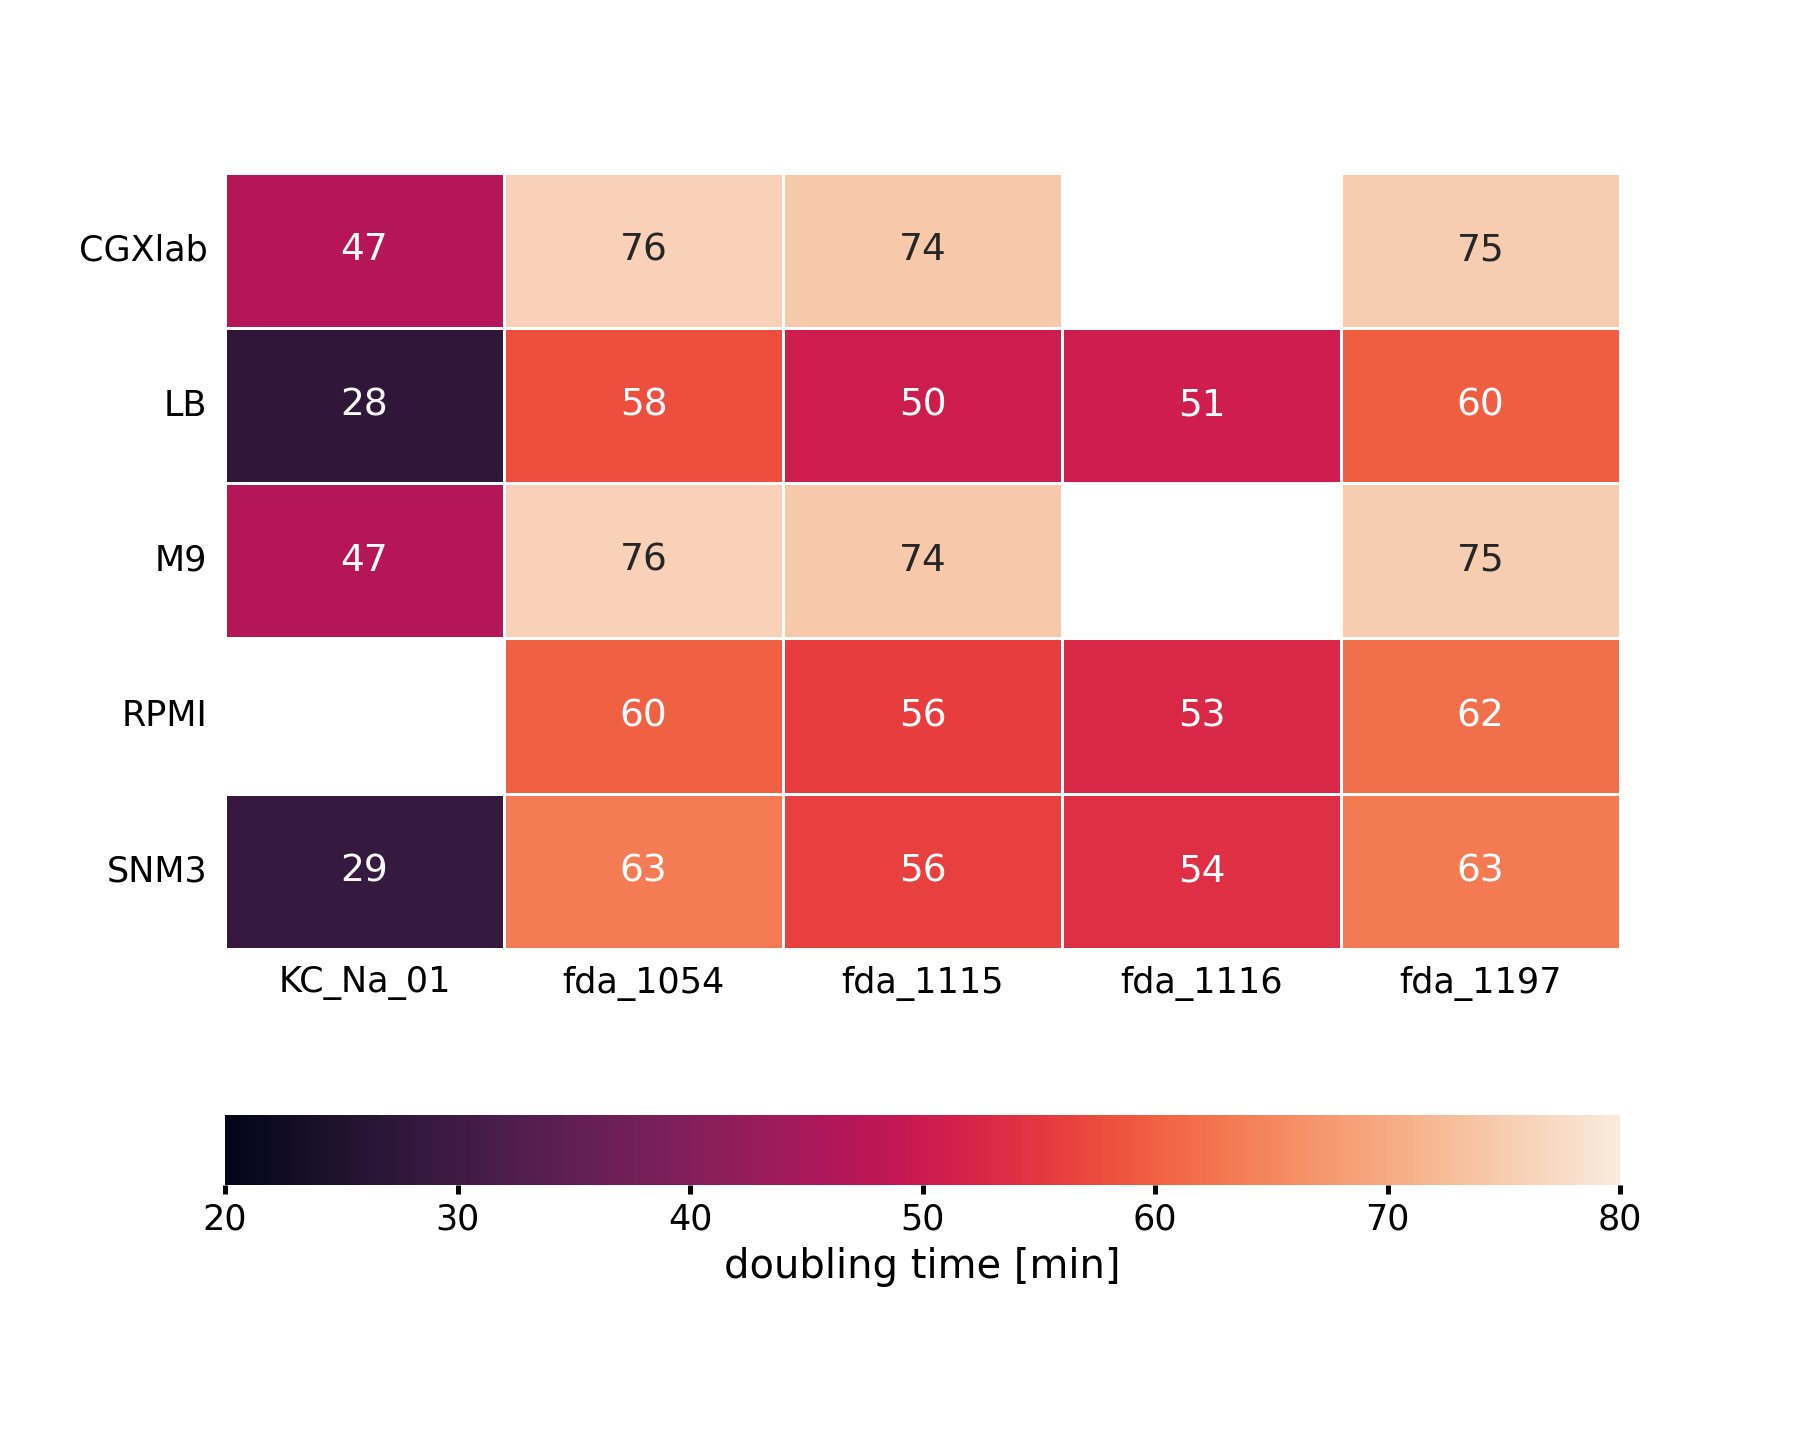
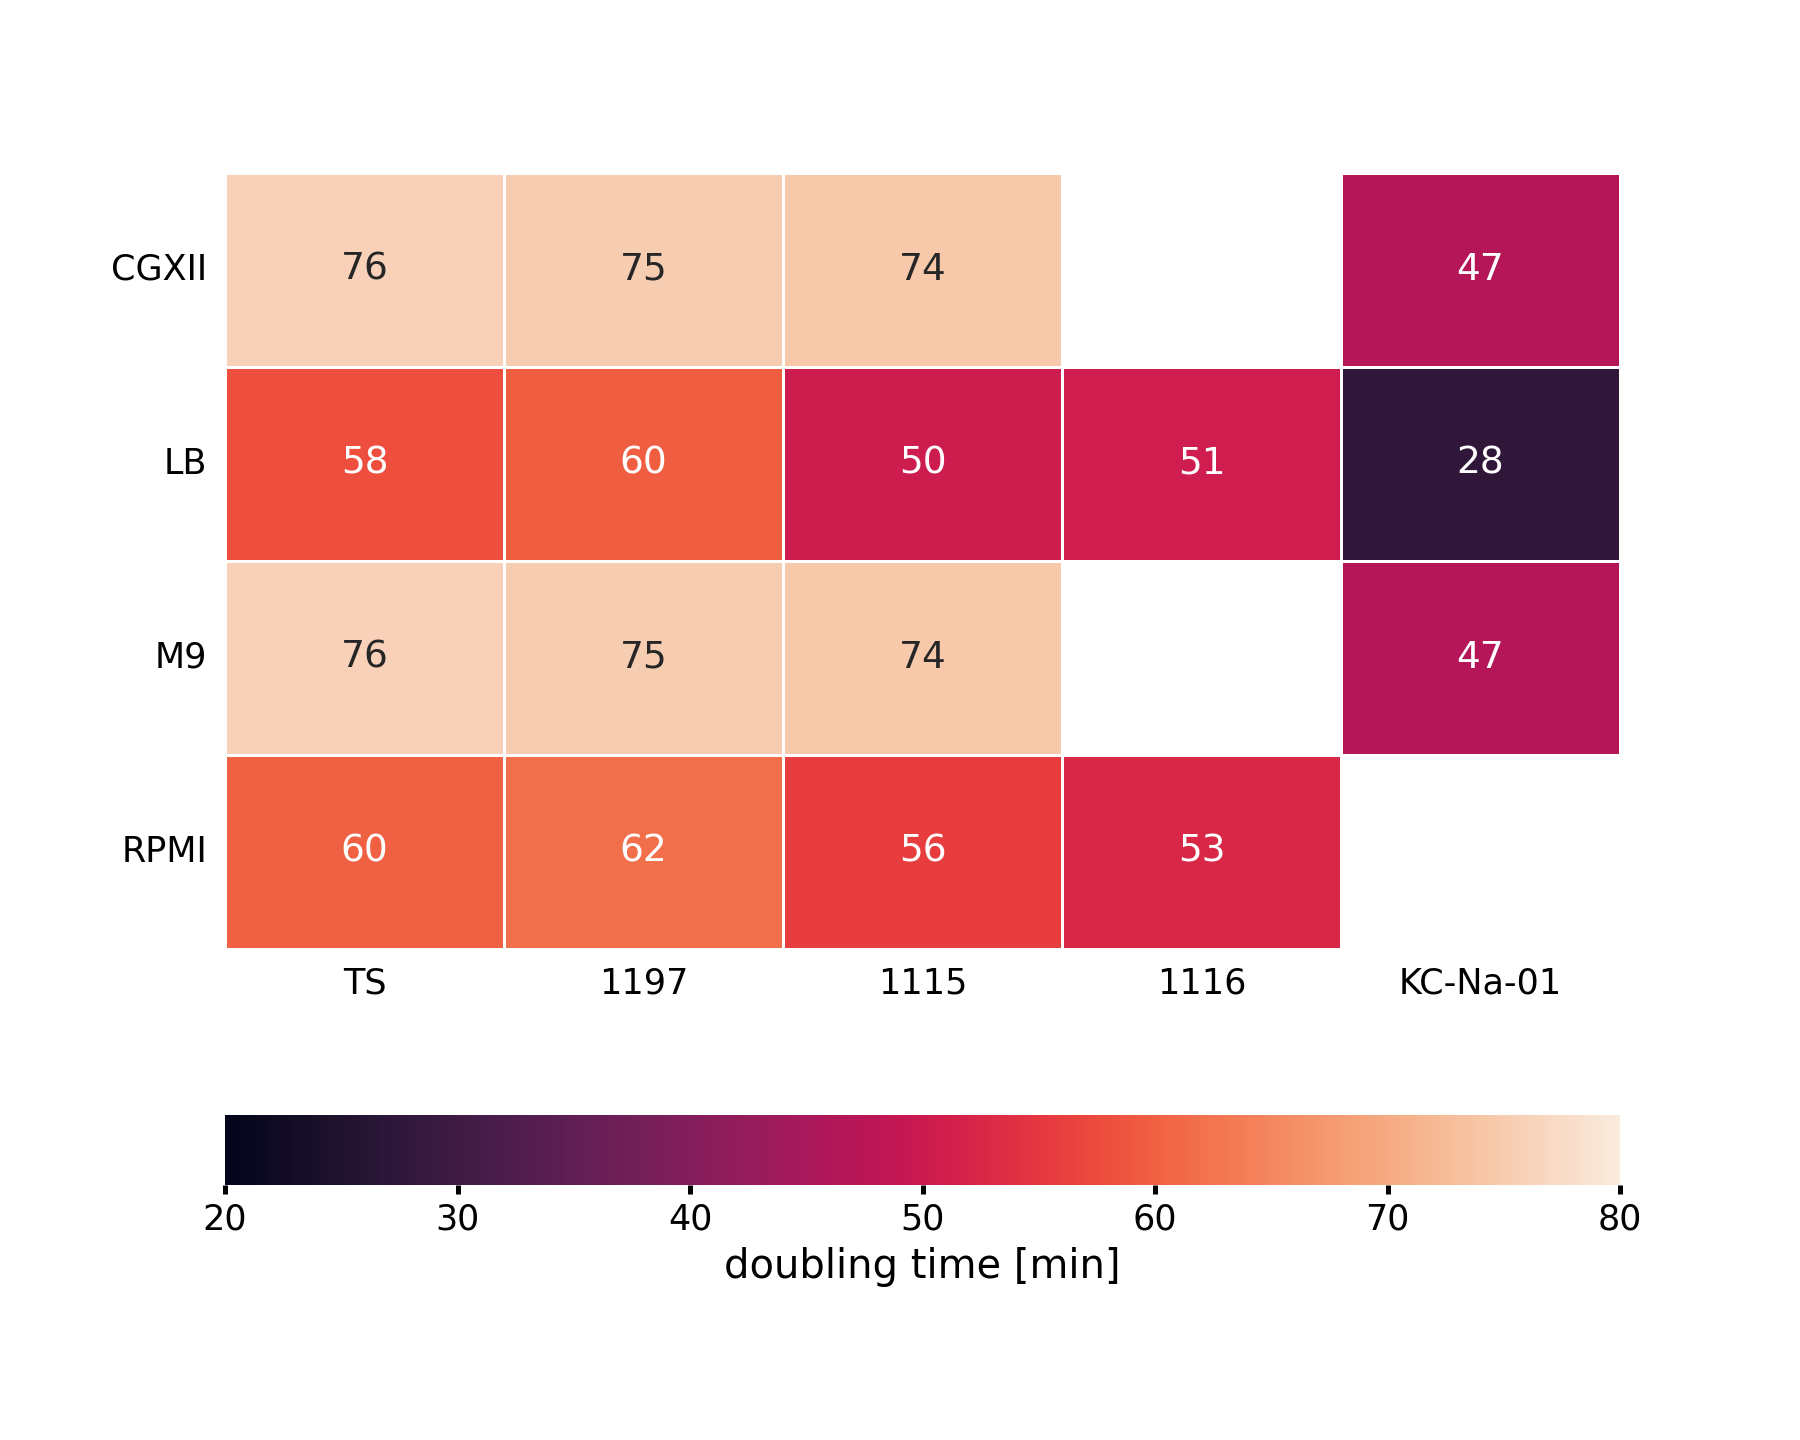
modiy vis to fit strain names #4

diff --git a/code/visualization.py b/code/visualization.py
@@ -10,6 +10,18 @@ import matplotlib.pyplot as plt
 import seaborn as sns
 from PARAMS import *
 
+STRAINS = {'fda_1054':'TS', 
+            'fda_1197':'1197',
+            'fda_1115':'1115',
+            'fda_1116':'1116',
+            'KC_Na_01':'KC-Na-01',
+            }
+STRAINS_LAB = {'14':'TS', 
+            '15':'1197',
+            '16':'1115',
+            '17':'1116',
+            }
+MEDIA = {'CGXlab':'CGXII'}
 #%%
 models = ['../models/Cstr_14.xml','../models/Cstr_15.xml','../models/Cstr_16.xml','../models/Cstr_17.xml','../models/Cstr_KC-Na-01.xml']
 mods = []
@@ -27,13 +39,14 @@ def create_venn(mods, entity, perc=False):
         if entity == 'r':
             for rea in model.reactions:
                 reas.append(rea.id)
-        intersec[model.id] = set(reas)
+        intersec[STRAINS[model.id]] = set(reas)
     if perc:
         fig = venn(intersec, fmt="{percentage:.0f}%")
     else:
         fig = venn(intersec)
     return fig
 
+#%%
 
 name = 'metabs'
 create_venn(mods, 'm', False)
@@ -51,13 +64,17 @@ numbers = pd.DataFrame(['reactions', 'metabolites', 'genes'])
 numbers
 #%%
 for model in mods:
-    numbers[model.id] = [len(model.metabolites), len(model.reactions), len(model.genes)]
+    numbers[STRAINS[model.id]] = [len(model.metabolites), 
+                                  len(model.reactions), 
+                                  len(model.genes)]
 numbers
 # %%
 numbers.set_index(0).T.plot.bar(cmap='Paired')#color={'reactions': cb[2], 'metabolites': cb[1], 'genes': cb[0]})
 plt.legend()
 plt.xticks(rotation=45, ha='right')
 plt.yticks(np.asarray([0,500,1000,1500,2000, 2500]))
+plt.tight_layout()
+plt.savefig('../analysis/comparison/numbers.png')
 # %% heatmap
 
 growth = pd.read_csv('../analysis/growth_20230113_minimal_uptake.csv')[['model', 'medium', 'doubling_time [min]']]
@@ -67,6 +84,10 @@ growth.index.names = (None,None)
 growth.index.name=None
 growth.index = growth.index.get_level_values(1)
 growth.replace([np.inf, -np.inf], np.nan, inplace=True)
+growth.drop('SNM3', inplace=True, axis=1)
+growth.rename(STRAINS, inplace=True)
+growth.rename(MEDIA, axis=1, inplace=True)
+growth = growth.T[['TS', '1197', '1115', '1116', 'KC-Na-01']].T
 growth
 #%%
 plt.figure(figsize=(10,8))
@@ -76,7 +97,7 @@ sns.heatmap(growth.T,
             vmin=20, vmax=80,
             #cmap='crest', 
             linewidth=.5, 
-            cbar_kws = {'orientation':'horizontal', 'label':'doubling time [min]'}
+            cbar_kws = {'orientation':'horizontal', 'label':'doubling time [min]'},
             )
 plt.xticks(rotation=0)
 plt.yticks(rotation=0)
